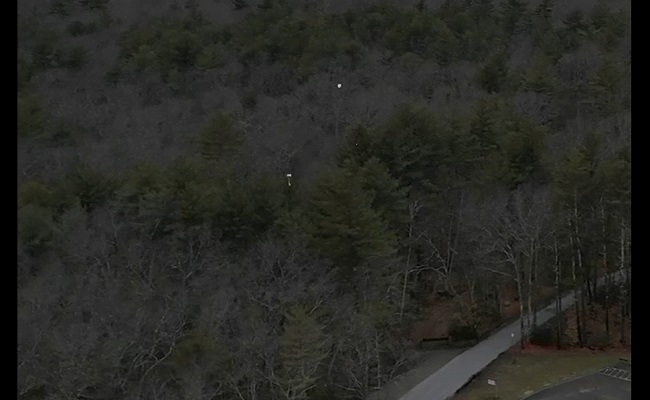
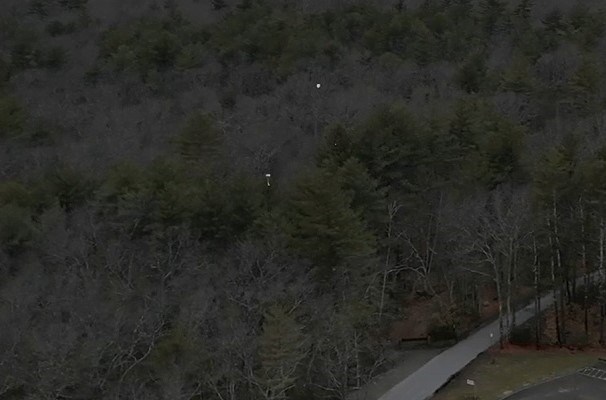
media update
black border cropped

diff --git a/README.md b/README.md
@@ -11,7 +11,7 @@ Here is one of the first fully assembled prototypes of our rocket. This model th
 |<img src="supp/3D3_07.jpg">|<img src="supp/3D3_03.jpg">|<img src="supp/3D3_04.jpg">|<img src="supp/3D3_02.jpg">|
 |-|-|-|-|
 |<img src="supp/3D3_01.jpg">|<img src="supp/3D3_06.jpg">|<img src="supp/3D3_05.jpg">|<img src="supp/3D3_09.jpg">|
-|<img src="supp/3D3_11.jpg">|<img src="supp/3D3_12.jpg">|<img src="supp/3D3_13.jpg">|<img src="supp/3D3_14.jpg">|<img src="supp/3D3_15.jpg">|
+|<img src="supp/3D3_11.jpg">|<img src="supp/3D3_13.jpg">|<img src="supp/3D3_14.jpg">|<img src="supp/3D3_15.jpg">|
 
 ## Active Control Model
 
